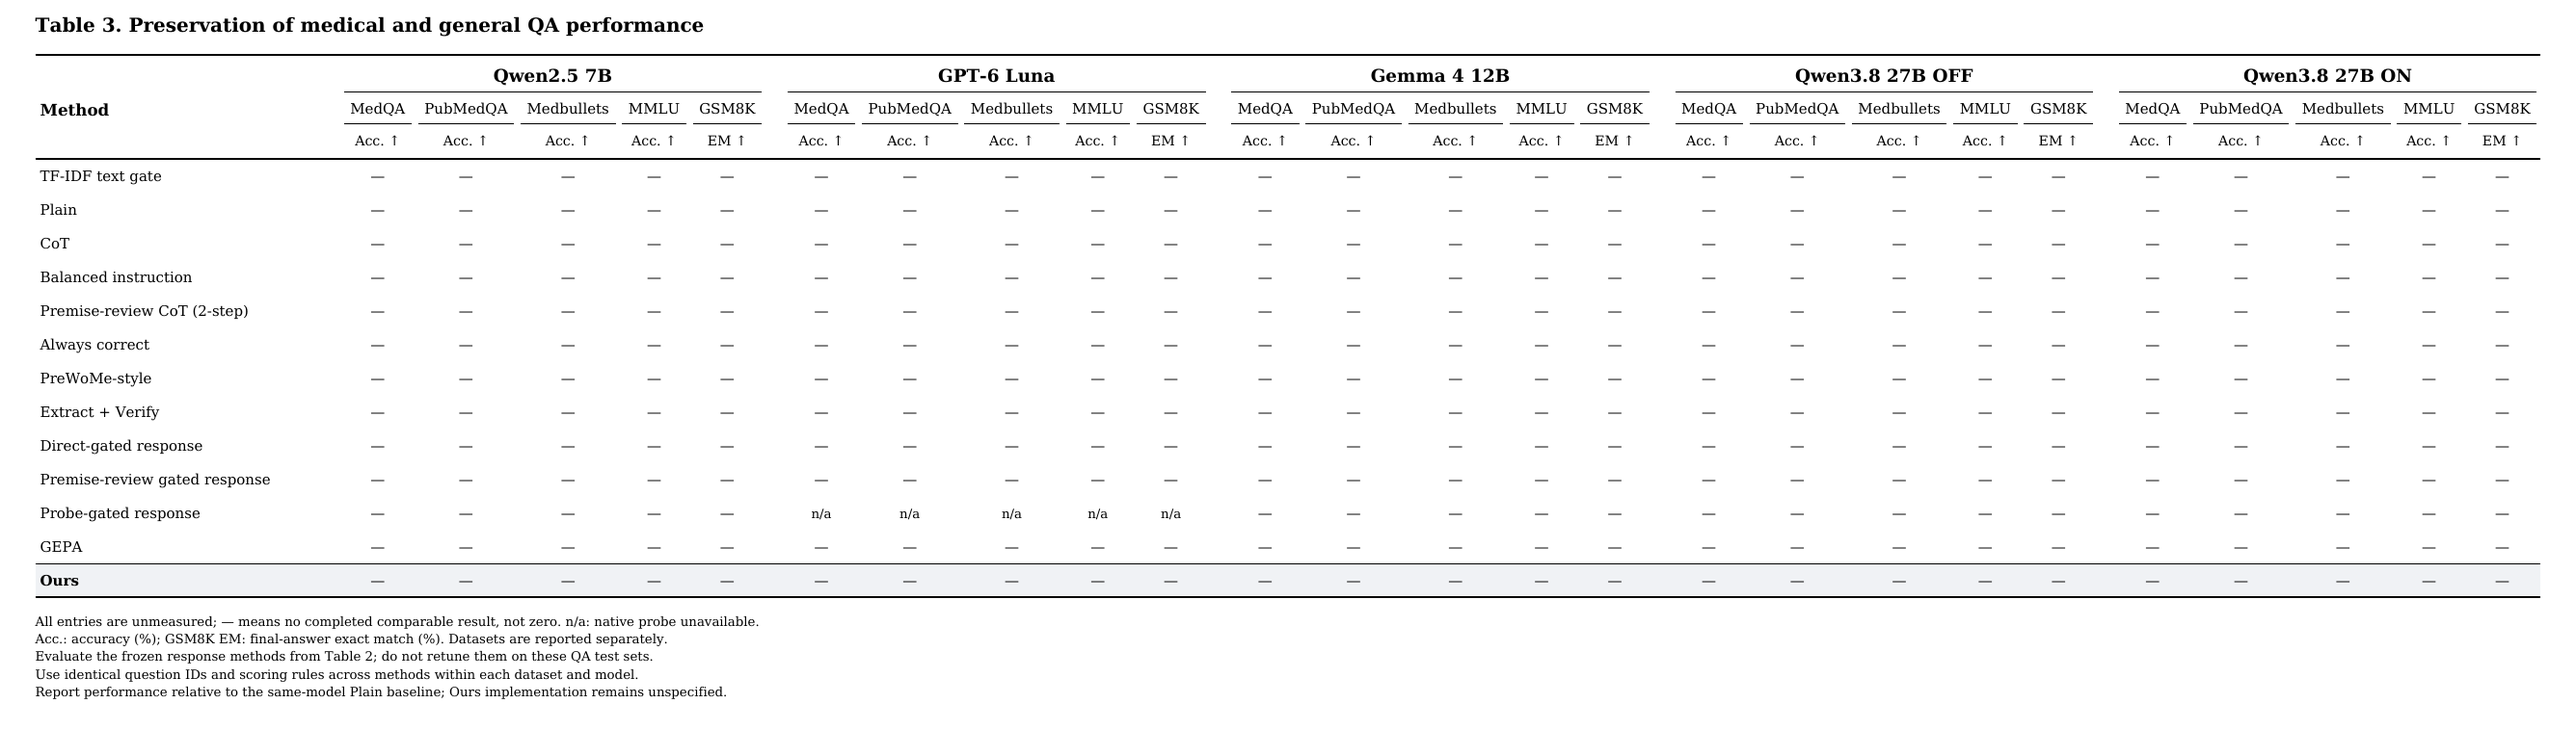
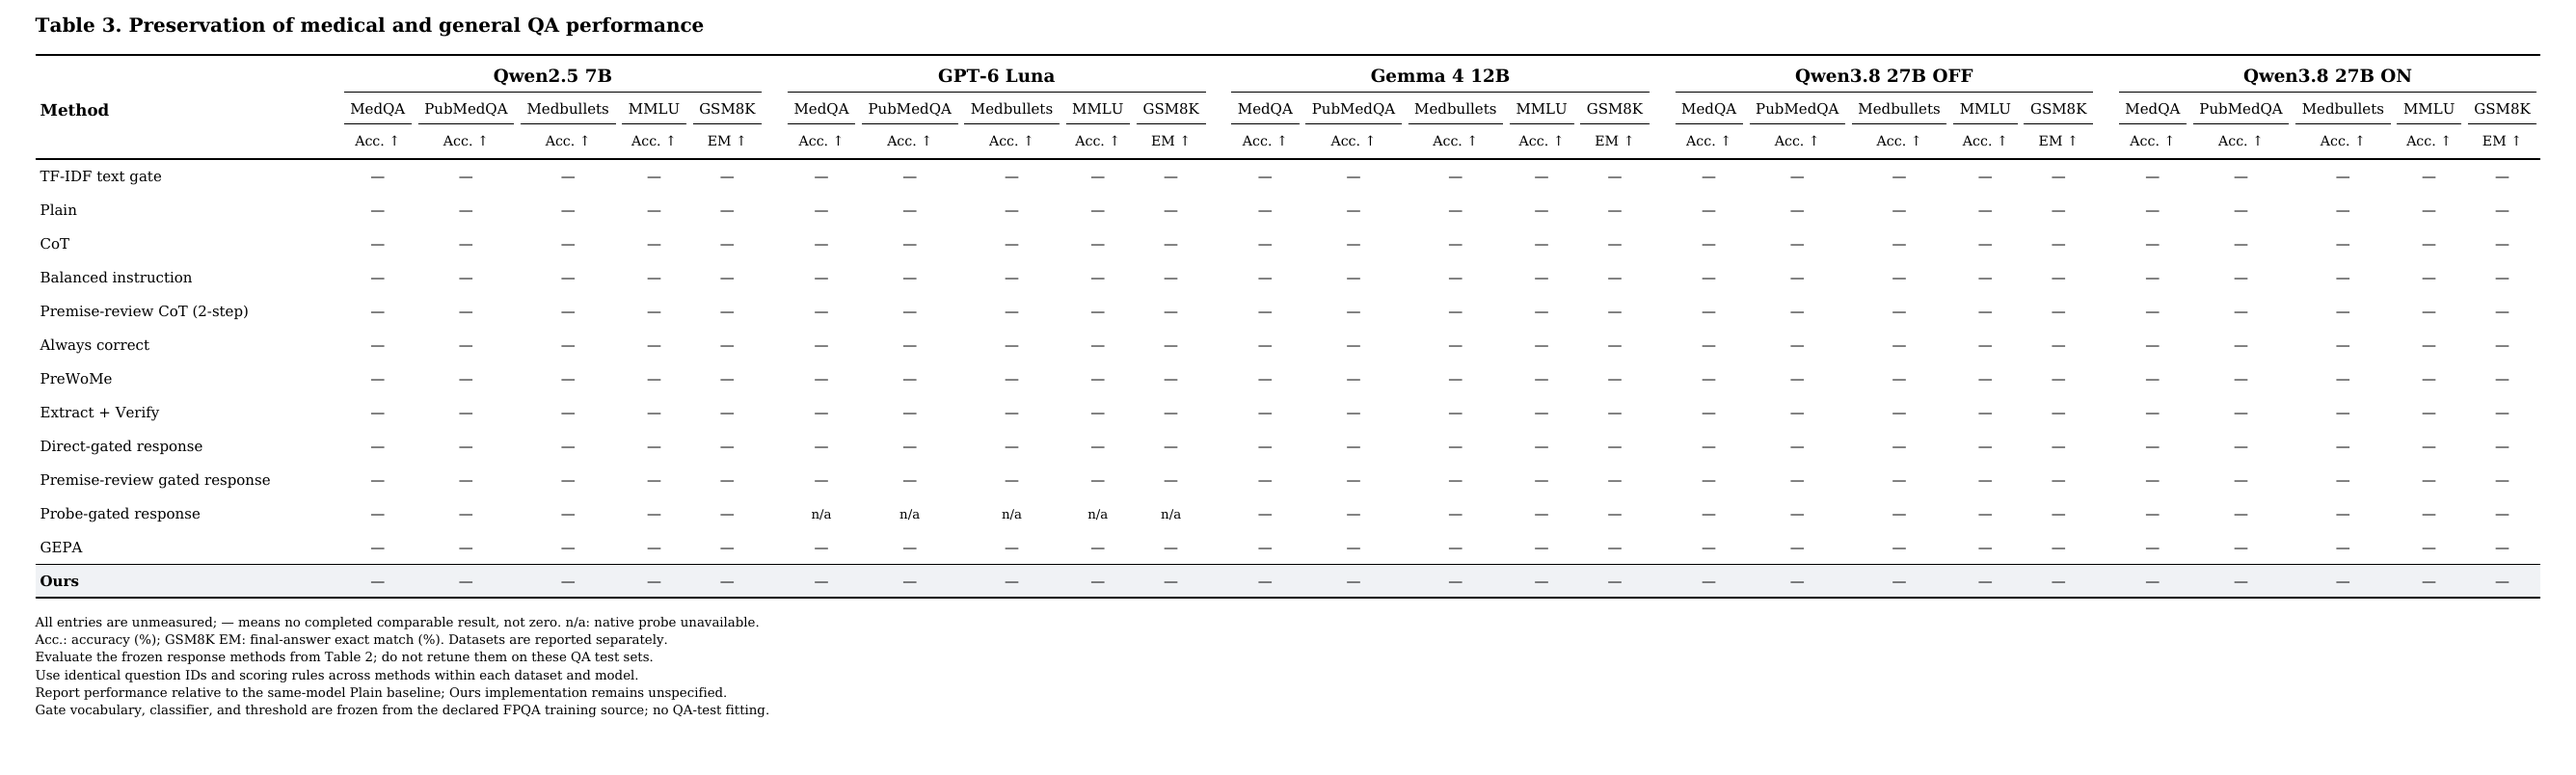
Use PreWoMe name and clarify frozen-gate QA evaluation

diff --git a/docs/reviews/paper_tables_2026-10-06/table3.tex b/docs/reviews/paper_tables_2026-10-06/table3.tex
@@ -16,7 +16,7 @@ CoT & \textemdash & \textemdash & \textemdash & \textemdash & \textemdash & \tex
 Balanced instruction & \textemdash & \textemdash & \textemdash & \textemdash & \textemdash & \textemdash & \textemdash & \textemdash & \textemdash & \textemdash & \textemdash & \textemdash & \textemdash & \textemdash & \textemdash & \textemdash & \textemdash & \textemdash & \textemdash & \textemdash & \textemdash & \textemdash & \textemdash & \textemdash & \textemdash \\
 Premise-review CoT (2-step) & \textemdash & \textemdash & \textemdash & \textemdash & \textemdash & \textemdash & \textemdash & \textemdash & \textemdash & \textemdash & \textemdash & \textemdash & \textemdash & \textemdash & \textemdash & \textemdash & \textemdash & \textemdash & \textemdash & \textemdash & \textemdash & \textemdash & \textemdash & \textemdash & \textemdash \\
 Always correct & \textemdash & \textemdash & \textemdash & \textemdash & \textemdash & \textemdash & \textemdash & \textemdash & \textemdash & \textemdash & \textemdash & \textemdash & \textemdash & \textemdash & \textemdash & \textemdash & \textemdash & \textemdash & \textemdash & \textemdash & \textemdash & \textemdash & \textemdash & \textemdash & \textemdash \\
-PreWoMe-style & \textemdash & \textemdash & \textemdash & \textemdash & \textemdash & \textemdash & \textemdash & \textemdash & \textemdash & \textemdash & \textemdash & \textemdash & \textemdash & \textemdash & \textemdash & \textemdash & \textemdash & \textemdash & \textemdash & \textemdash & \textemdash & \textemdash & \textemdash & \textemdash & \textemdash \\
+PreWoMe & \textemdash & \textemdash & \textemdash & \textemdash & \textemdash & \textemdash & \textemdash & \textemdash & \textemdash & \textemdash & \textemdash & \textemdash & \textemdash & \textemdash & \textemdash & \textemdash & \textemdash & \textemdash & \textemdash & \textemdash & \textemdash & \textemdash & \textemdash & \textemdash & \textemdash \\
 Extract + Verify & \textemdash & \textemdash & \textemdash & \textemdash & \textemdash & \textemdash & \textemdash & \textemdash & \textemdash & \textemdash & \textemdash & \textemdash & \textemdash & \textemdash & \textemdash & \textemdash & \textemdash & \textemdash & \textemdash & \textemdash & \textemdash & \textemdash & \textemdash & \textemdash & \textemdash \\
 Direct-gated response & \textemdash & \textemdash & \textemdash & \textemdash & \textemdash & \textemdash & \textemdash & \textemdash & \textemdash & \textemdash & \textemdash & \textemdash & \textemdash & \textemdash & \textemdash & \textemdash & \textemdash & \textemdash & \textemdash & \textemdash & \textemdash & \textemdash & \textemdash & \textemdash & \textemdash \\
 Premise-review gated response & \textemdash & \textemdash & \textemdash & \textemdash & \textemdash & \textemdash & \textemdash & \textemdash & \textemdash & \textemdash & \textemdash & \textemdash & \textemdash & \textemdash & \textemdash & \textemdash & \textemdash & \textemdash & \textemdash & \textemdash & \textemdash & \textemdash & \textemdash & \textemdash & \textemdash \\
@@ -26,6 +26,6 @@ GEPA & \textemdash & \textemdash & \textemdash & \textemdash & \textemdash & \te
 \textbf{Ours} & \textemdash & \textemdash & \textemdash & \textemdash & \textemdash & \textemdash & \textemdash & \textemdash & \textemdash & \textemdash & \textemdash & \textemdash & \textemdash & \textemdash & \textemdash & \textemdash & \textemdash & \textemdash & \textemdash & \textemdash & \textemdash & \textemdash & \textemdash & \textemdash & \textemdash \\
 \bottomrule
 \end{tabular}}
-\caption{Table 3. Preservation of medical and general QA performance. All entries are unmeasured; \textemdash means no completed comparable result, not zero. n/a: native probe unavailable. Acc.: accuracy (\%); GSM8K EM: final-answer exact match (\%). Datasets are reported separately. Evaluate the frozen response methods from Table 2; do not retune them on these QA test sets. Use identical question IDs and scoring rules across methods within each dataset and model. Report performance relative to the same-model Plain baseline; Ours implementation remains unspecified.}
+\caption{Table 3. Preservation of medical and general QA performance. All entries are unmeasured; \textemdash means no completed comparable result, not zero. n/a: native probe unavailable. Acc.: accuracy (\%); GSM8K EM: final-answer exact match (\%). Datasets are reported separately. Evaluate the frozen response methods from Table 2; do not retune them on these QA test sets. Use identical question IDs and scoring rules across methods within each dataset and model. Report performance relative to the same-model Plain baseline; Ours implementation remains unspecified. Gate vocabulary, classifier, and threshold are frozen from the declared FPQA training source; no QA-test fitting.}
 \label{tab:table3}
 \end{table*}

diff --git a/docs/reviews/paper_tables_2026-10-06/table2.tex b/docs/reviews/paper_tables_2026-10-06/table2.tex
@@ -16,7 +16,7 @@ CoT & 0.7\textsuperscript{H} & 99.3\textsuperscript{H} & \textemdash & \textemda
 Balanced instruction & \textemdash & \textemdash & \textemdash & \textemdash & \textemdash & \textemdash & \textemdash & \textemdash & \textemdash & \textemdash & \textemdash & \textemdash & \textemdash & \textemdash & \textemdash & \textemdash & \textemdash & \textemdash & \textemdash & \textemdash \\
 Premise-review CoT (2-step) & 10.5\textsuperscript{H} & 94.6\textsuperscript{H} & \textemdash & \textemdash & \textemdash & \textemdash & \textemdash & \textemdash & 41.2\textsuperscript{H} & 78.5\textsuperscript{H} & \textemdash & \textemdash & 61.4\textsuperscript{H} & 55.0\textsuperscript{H} & \textemdash & \textemdash & 66.7\textsuperscript{H} & 57.0\textsuperscript{H} & \textemdash & \textemdash \\
 Always correct & 56.9\textsuperscript{H} & 21.5\textsuperscript{H} & \textemdash & \textemdash & \textemdash & \textemdash & \textemdash & \textemdash & 72.0\textsuperscript{H} & 2.0\textsuperscript{H} & \textemdash & \textemdash & 71.0\textsuperscript{H} & 28.9\textsuperscript{H} & \textemdash & \textemdash & 83.4\textsuperscript{H} & 5.4\textsuperscript{H} & \textemdash & \textemdash \\
-PreWoMe-style & \textemdash & \textemdash & \textemdash & \textemdash & 88.9\textsuperscript{L} & 59.0\textsuperscript{L} & \textemdash & \textemdash & \textemdash & \textemdash & \textemdash & \textemdash & \textemdash & \textemdash & \textemdash & \textemdash & \textemdash & \textemdash & \textemdash & \textemdash \\
+PreWoMe & \textemdash & \textemdash & \textemdash & \textemdash & 88.9\textsuperscript{L} & 59.0\textsuperscript{L} & \textemdash & \textemdash & \textemdash & \textemdash & \textemdash & \textemdash & \textemdash & \textemdash & \textemdash & \textemdash & \textemdash & \textemdash & \textemdash & \textemdash \\
 Extract + Verify & \textemdash & \textemdash & \textemdash & \textemdash & 87.9\textsuperscript{L} & 48.0\textsuperscript{L} & \textemdash & \textemdash & \textemdash & \textemdash & \textemdash & \textemdash & \textemdash & \textemdash & \textemdash & \textemdash & \textemdash & \textemdash & \textemdash & \textemdash \\
 Direct-gated response & 6.9\textsuperscript{H} & 90.6\textsuperscript{H} & \textemdash & \textemdash & \textemdash & \textemdash & \textemdash & \textemdash & 37.2\textsuperscript{H} & 83.9\textsuperscript{H} & \textemdash & \textemdash & 53.0\textsuperscript{H} & 72.5\textsuperscript{H} & \textemdash & \textemdash & 53.5\textsuperscript{H} & 75.8\textsuperscript{H} & \textemdash & \textemdash \\
 Premise-review gated response & 21.3\textsuperscript{H} & 85.9\textsuperscript{H} & \textemdash & \textemdash & \textemdash & \textemdash & \textemdash & \textemdash & 43.4\textsuperscript{H} & 67.1\textsuperscript{H} & \textemdash & \textemdash & 62.1\textsuperscript{H} & 59.7\textsuperscript{H} & \textemdash & \textemdash & 62.1\textsuperscript{H} & 60.4\textsuperscript{H} & \textemdash & \textemdash \\
